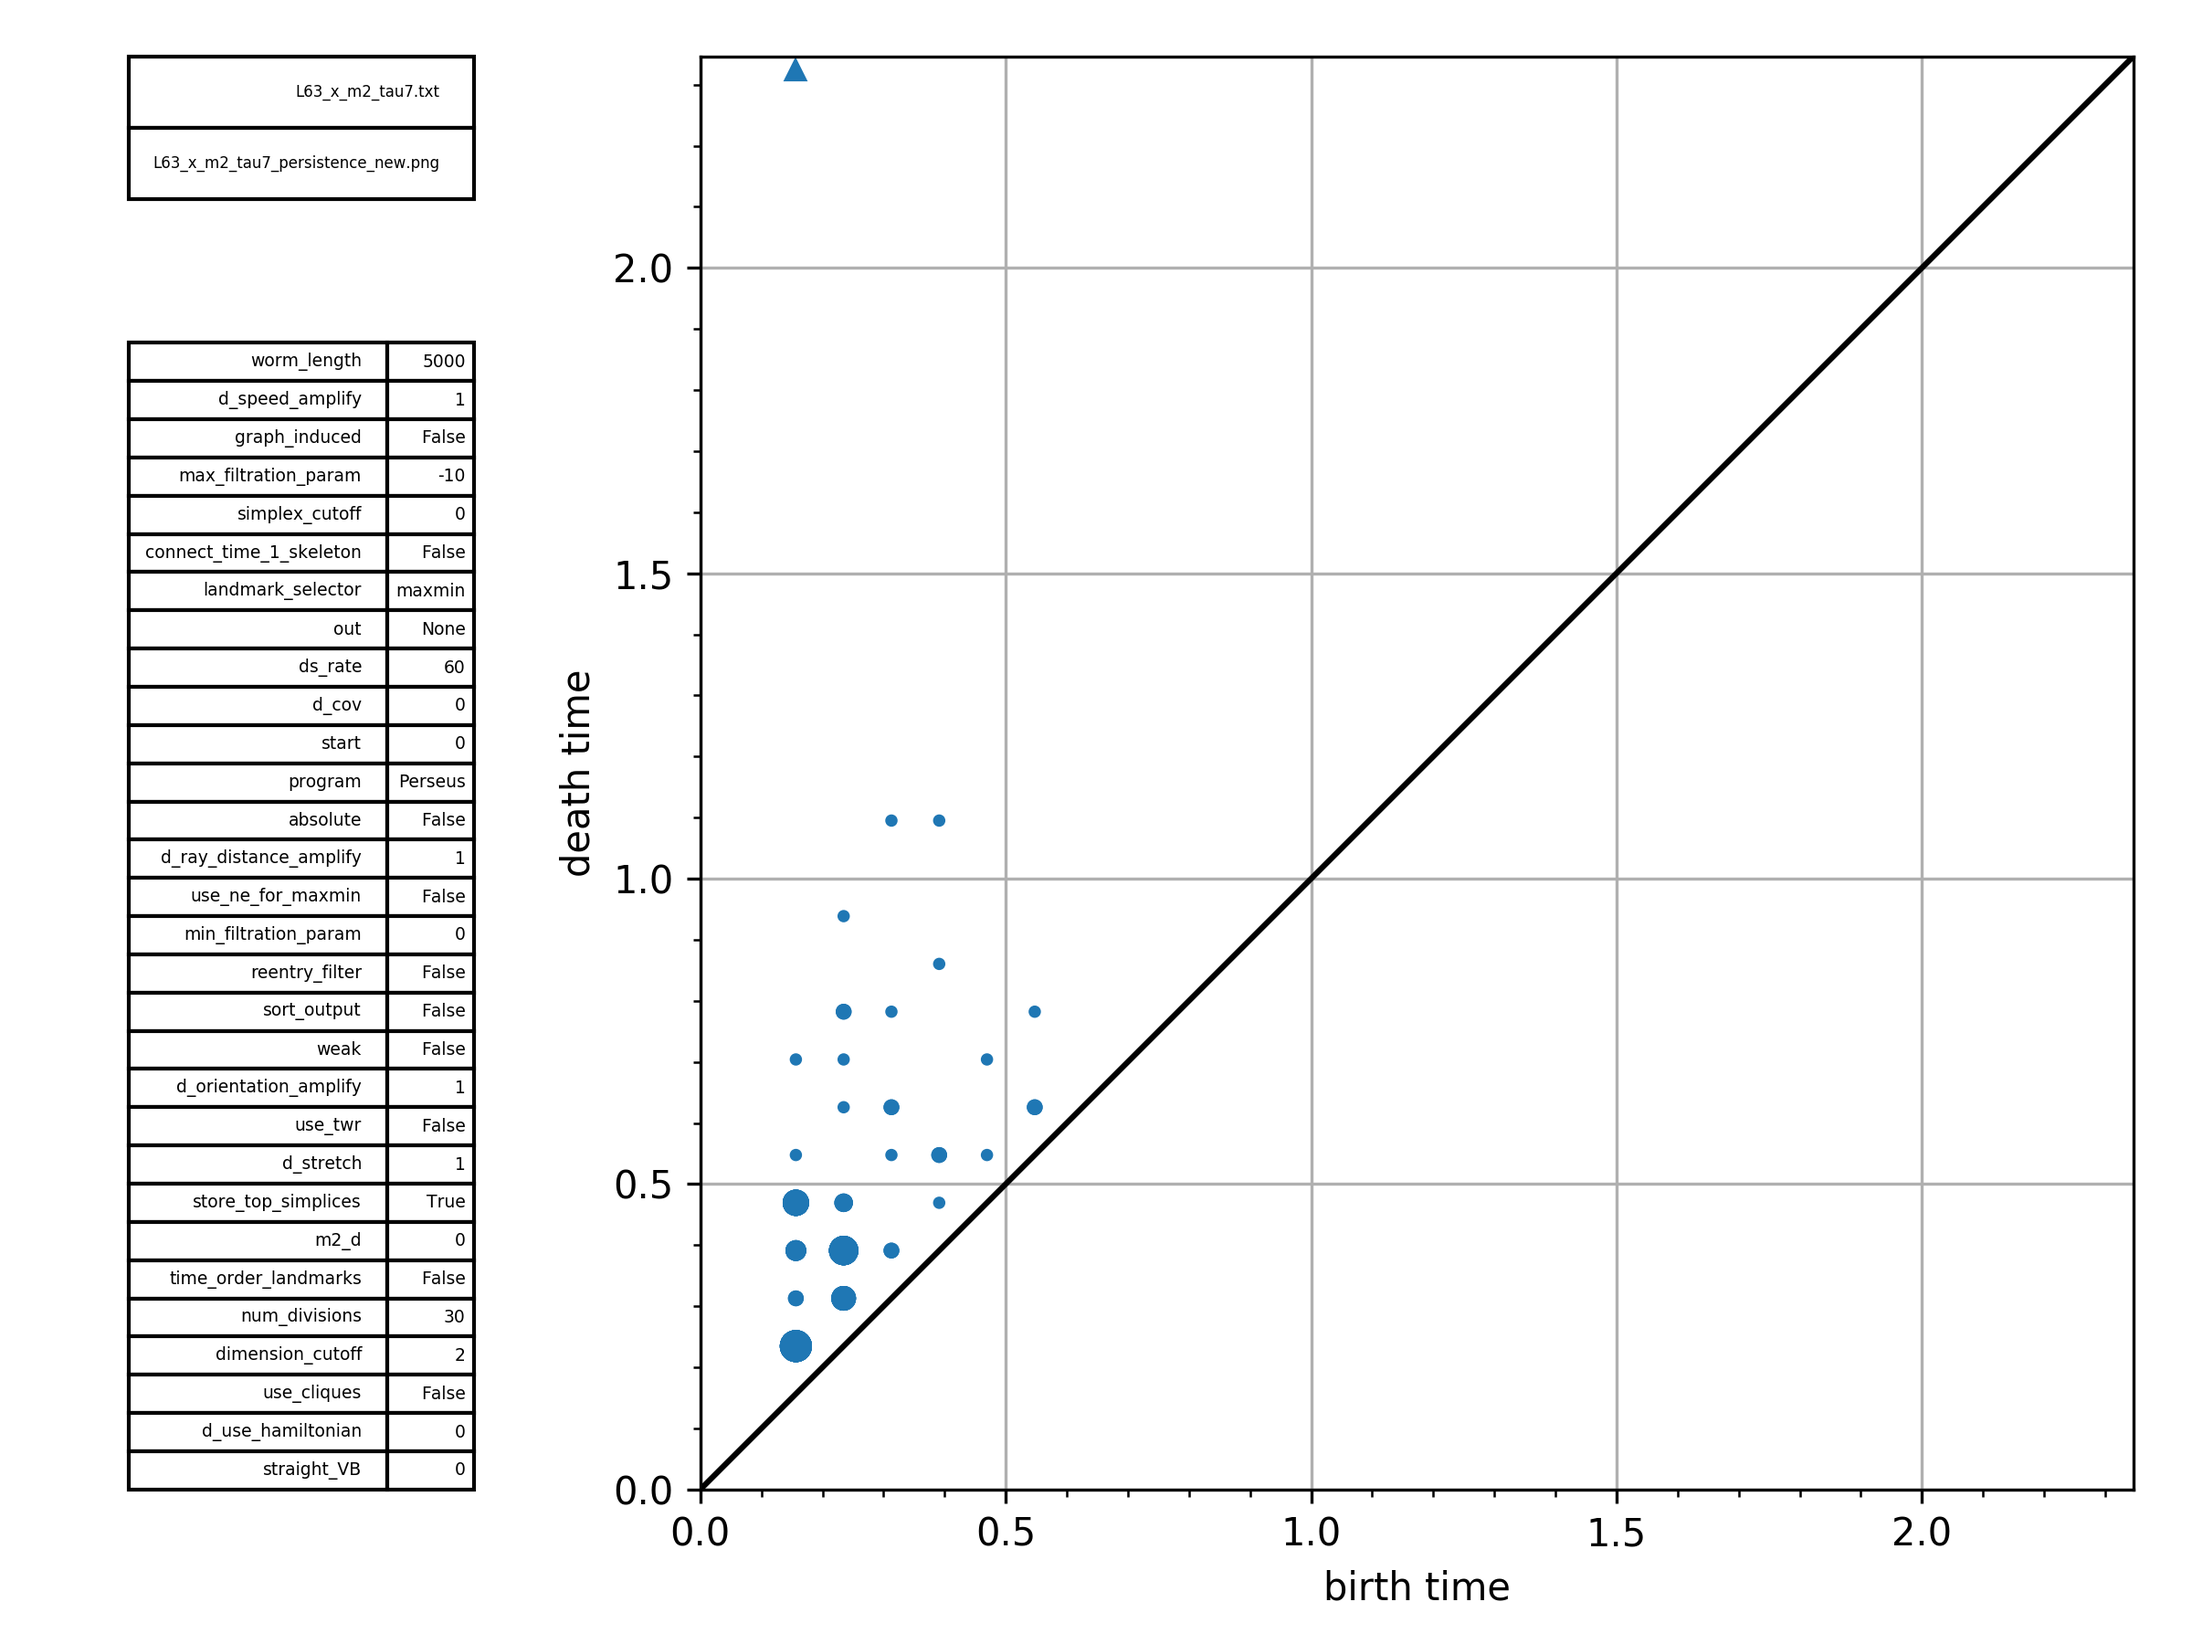
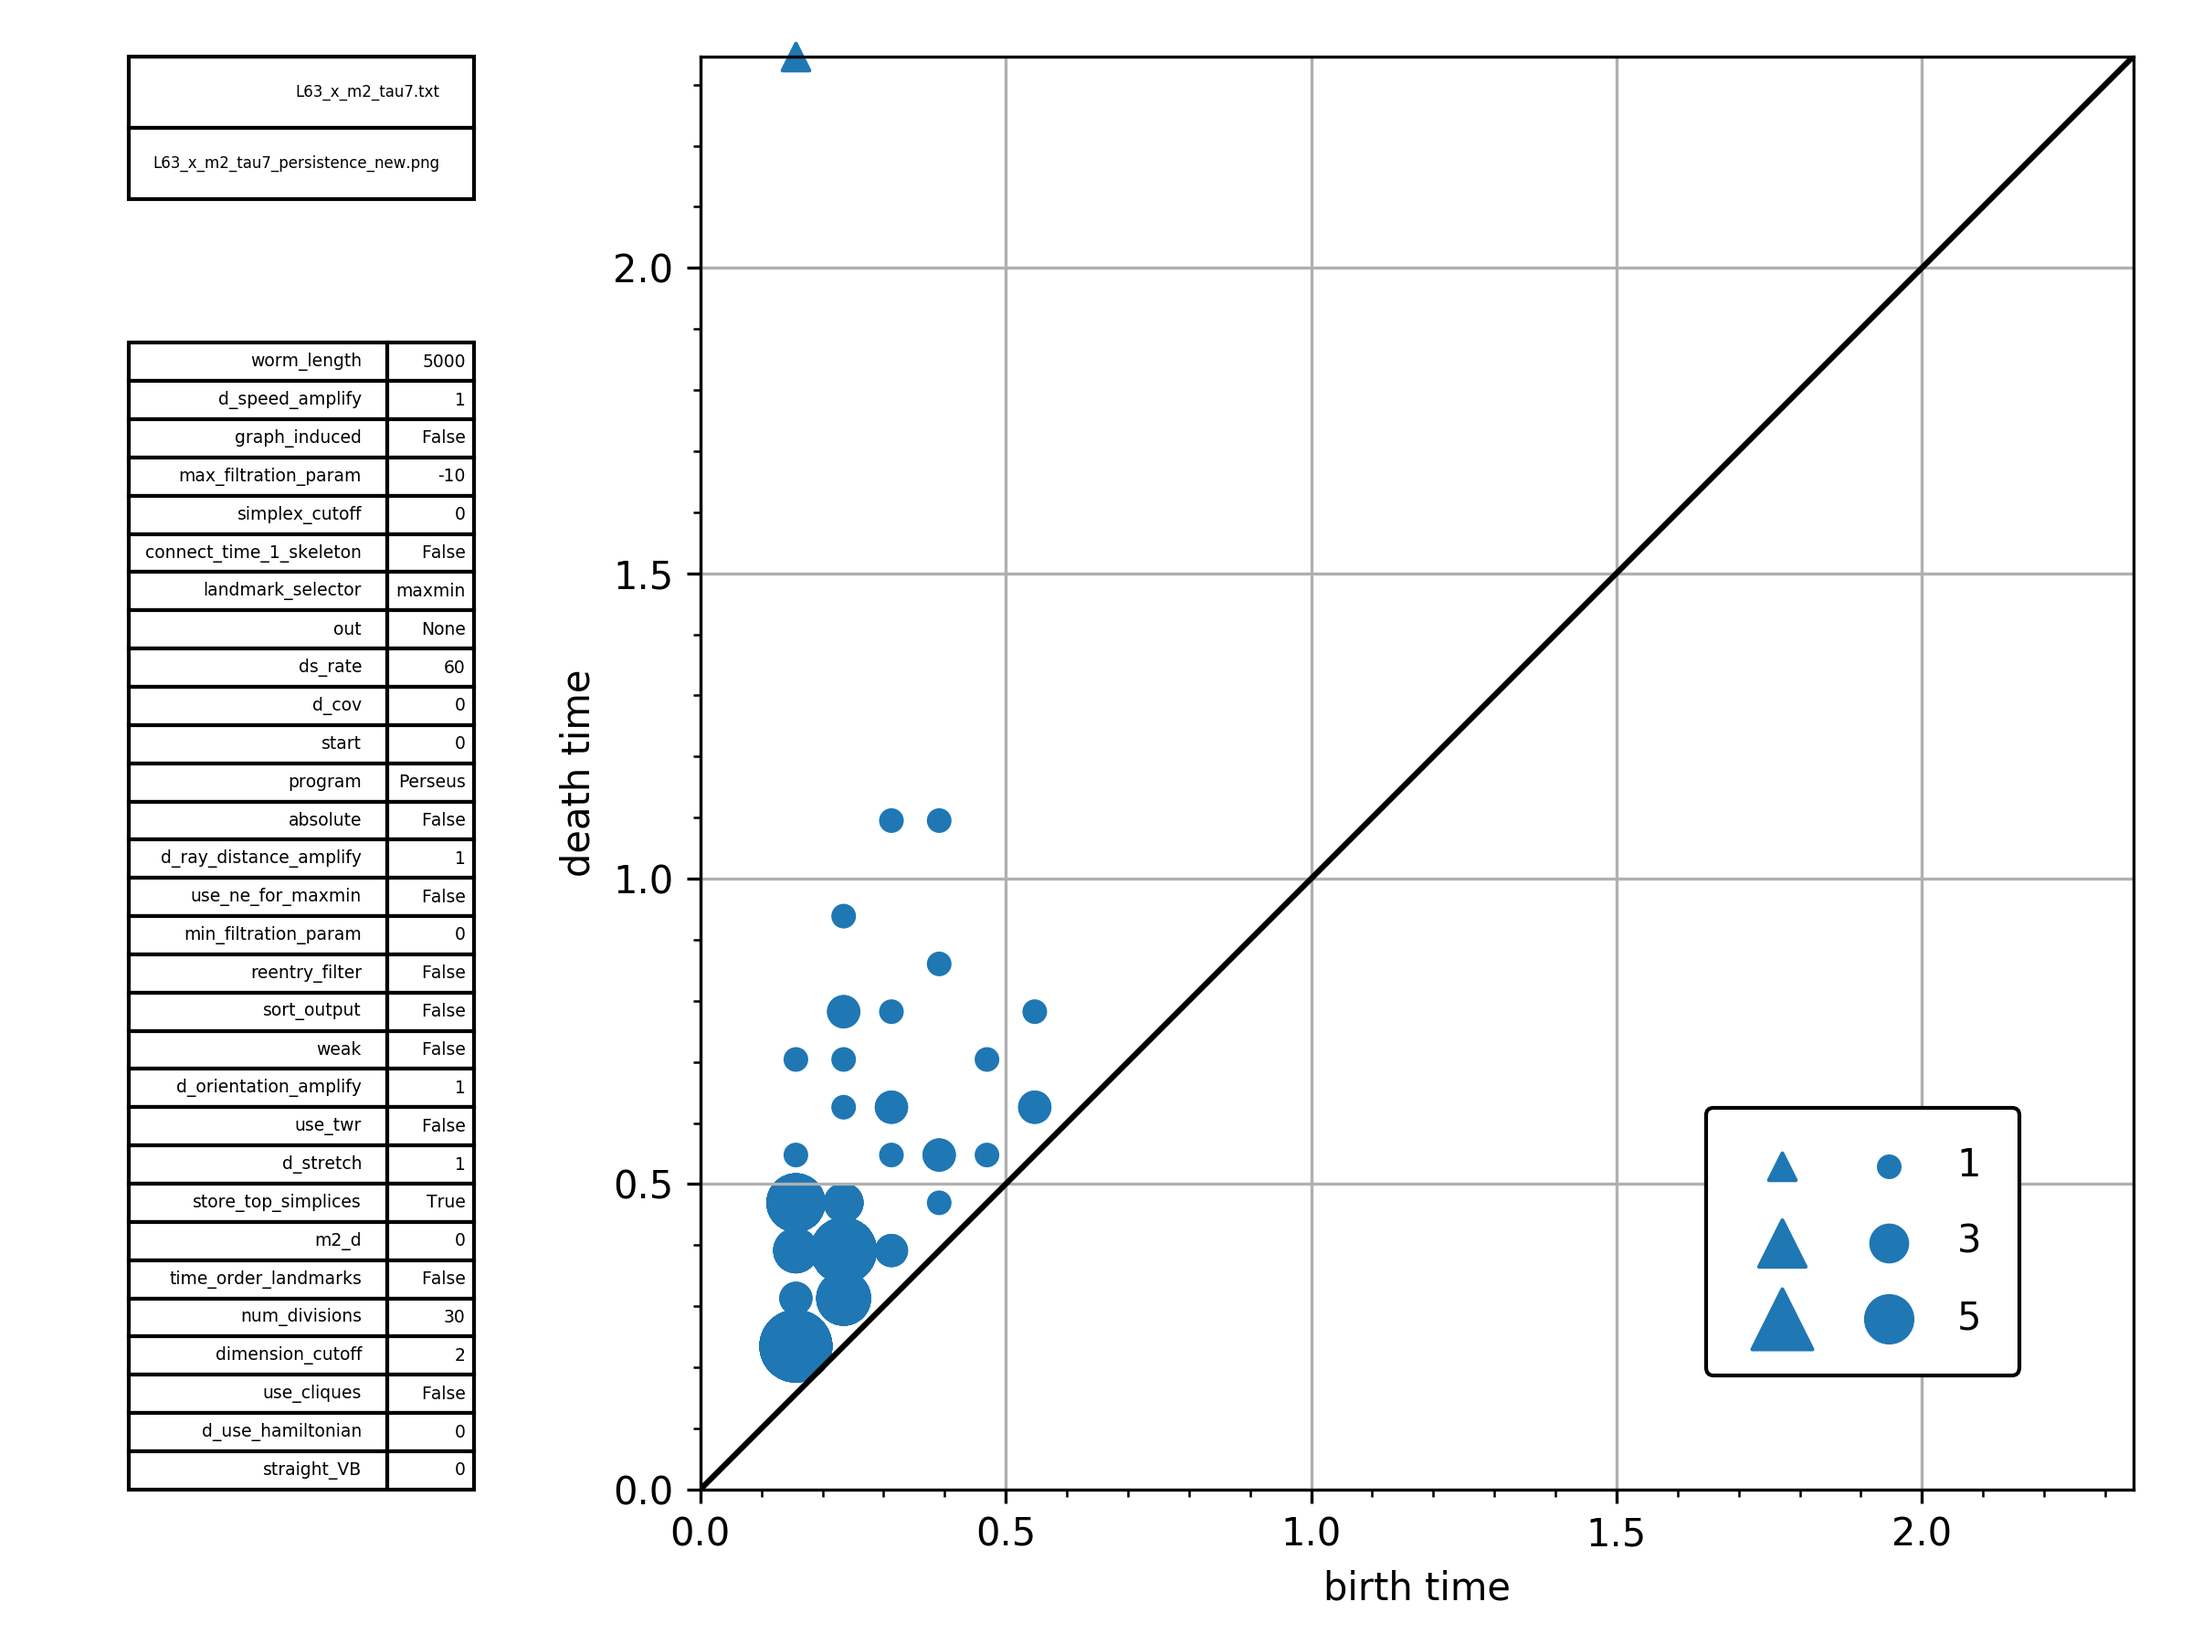
PD: added triangle sizing, legend. filt movies: wits on top

diff --git a/PersistentHomology/PersistencePlotter.py b/PersistentHomology/PersistencePlotter.py
@@ -82,7 +82,7 @@ def add_title(subplot, title_block_info):
 	title_table.auto_set_font_size(False)
 	title_table.auto_set_font_size(8)
 
-def add_persistence_plot(subplot):
+def add_persistence_plot(subplot, fig):
 	print 'plotting persistence diagram...'
 	birth_t, death_t = np.loadtxt('PersistentHomology/perseus/perseus_out_1.txt', unpack=True)
 
@@ -104,28 +104,28 @@ def add_persistence_plot(subplot):
 
 	subplot.plot([0, lim], [0, lim], color='k') # diagonal line
 
-	birth_e = []
-	death_e = []
-
-	for times in zip(birth_t, death_t):
-		if times[1] != - 1:
-			birth_e.append(epsilons[int(times[0])])
-			death_e.append(epsilons[int(times[1])])
-
-
+	# plot immortal holes #
 	immortal_holes = [epsilons[int(birth_t[i])] for i, death_time in enumerate(death_t) if death_time == -1]
 	count = np.zeros(len(immortal_holes))
 	for i, pt in enumerate(immortal_holes):
 		for scanner_pt in immortal_holes:
 			if pt == scanner_pt:
 				count[i] += 1
-	for b_e in immortal_holes:
-		# subplot.plot((bt, bt), (bt, lim), '--', color='k', lw=1, zorder=0)    # immortal holes
-		print 'immortal hole count:', count
-		subplot.plot(b_e, lim *.99, '^', color='C0', markersize=count * 5)
+
+	t_ms_scale = 50
+
+	x, y = immortal_holes, [lim for i in immortal_holes]
+	subplot.scatter(x, y, marker='^', s=(count * t_ms_scale), c='C0', clip_on=False)
+	# end plot immortal holes#
 
 
 
+	# plot doomed holes #
+	birth_e, death_e = [], []
+	for times in zip(birth_t, death_t):
+		if times[1] != - 1:
+			birth_e.append(epsilons[int(times[0])])
+			death_e.append(epsilons[int(times[1])])
 
 	count = np.zeros(len(birth_t))
 	for i, pt in enumerate(zip(birth_t, death_t)):
@@ -133,7 +133,32 @@ def add_persistence_plot(subplot):
 			if pt == scanner_pt:
 				count[i] += 1
 
-	subplot.scatter(birth_e, death_e, s=(count * 5), zorder=1)   # doomed holes
+	p_ms_scale = 30
+	subplot.scatter(birth_e, death_e, s=(count * p_ms_scale), clip_on=False)
+	# end plot doomed holes #
+
+	# add legend #
+	mark_t_1 = subplot.scatter([], [], marker='^', s=t_ms_scale, c='C0')
+	mark_t_3 = subplot.scatter([], [], marker='^', s=t_ms_scale * 3, c='C0')
+	mark_t_5 = subplot.scatter([], [], marker='^', s=t_ms_scale * 5, c='C0')
+
+	mark_p_1 = subplot.scatter([], [], s=p_ms_scale, c='C0')
+	mark_p_3 = subplot.scatter([], [], s=p_ms_scale * 3, c='C0')
+	mark_p_5 = subplot.scatter([], [], s=p_ms_scale * 5, c='C0')
+
+	marks = (mark_t_1, mark_t_3, mark_t_5, mark_p_1, mark_p_3, mark_p_5)
+	labels = ('', '', '', '1', '3', '5')
+
+	subplot.legend(
+		marks, labels, loc='lower right', ncol=2, markerscale=1,
+		borderpad=1,
+		labelspacing=1,
+		framealpha=1,
+		columnspacing=0,
+		borderaxespad=3,
+		edgecolor='k'
+	)
+	# end add legend #
 
 
 
@@ -165,7 +190,7 @@ def make_figure(title_block_info, out_file_name):
 	title_block = pyplot.subplot2grid((3, 4), (0, 0), rowspan=3)
 	pers_plot = pyplot.subplot2grid((3, 4), (0, 1), rowspan=3, colspan=3)
 
-	add_persistence_plot(pers_plot)
+	add_persistence_plot(pers_plot, fig)
 	add_title(title_block, title_block_info)
 	pyplot.savefig(out_file_name)
 	pyplot.clf()

diff --git a/PersistentHomology/ph_test_all.py b/PersistentHomology/ph_test_all.py
@@ -1,0 +1,40 @@
+import sys
+import numpy as np
+from PersistentHomology.TestingFunctions import build_and_save_filtration, make_filtration_movie, make_persistence_diagram
+from PersistentHomology.FiltrationPlotter import make_frame3D
+from PersistentHomology.TestingFunctions import parameter_set
+
+
+
+in_data_file_name = "datasets/embedded/L63_x_m2/L63_x_m2_tau35.txt"
+build_filt_params = parameter_set
+build_filt_params.update(
+	{
+		'ds_rate': 60,
+		'worm_length': 5000,
+		'max_filtration_param': -5,
+		# 'd_cov': 20,
+		'num_divisions': 10,
+		'use_cliques': True,
+
+	})
+
+# start_pt = 0  # fraction to skip of in data file (primitive sliding window)
+# build_and_save_filtration(in_data_file_name, build_filt_params, start=start_pt)  # comment out to reuse filtration
+#
+# make_filtration_movie(
+# 	in_data_file_name,              # used to check if saved filtration is up to date, and in titlebox
+# 	"output/PersistentHomology/L63_x_m2_tau7_movie.mp4",      		# output filename
+# 	build_filt_params,              # passed to BuildComplex.build_filtration()
+#
+# 	# the following are optional plotting parameters and may be omitted
+# 	# see documentation at line 76 of TestingFunctions.py.
+# 	color_scheme='none',
+# 	framerate=1,
+# )
+
+make_persistence_diagram(
+	in_data_file_name,
+	"output/PersistentHomology/L63_x_m2_tau7_persistence_new.png",
+	build_filt_params
+)

diff --git a/phTester.py b/phTester.py
@@ -26,17 +26,17 @@ if test == 1:
 
 	start_pt = 0   # fraction to skip of in data file (primitive sliding window)
 	build_and_save_filtration(in_data_file_name, build_filt_params, start=start_pt) # comment out to reuse filtration
-	#
-	# make_filtration_movie(
-	# 	in_data_file_name,              # used to check if saved filtration is up to date, and in titlebox
-	# 	"output/PersistentHomology/L63_x_m2_tau7_movie.mp4",      		# output filename
-	# 	build_filt_params,              # passed to BuildComplex.build_filtration()
-	#
-	# 	# the following are optional plotting parameters and may be omitted
-	# 	# see documentation at line 76 of TestingFunctions.py.
-	# 	color_scheme='none',
-	# 	framerate=1,
-	# )
+
+	make_filtration_movie(
+		in_data_file_name,              # used to check if saved filtration is up to date, and in titlebox
+		"output/PersistentHomology/L63_x_m2_tau7_movie.mp4",      		# output filename
+		build_filt_params,              # passed to BuildComplex.build_filtration()
+
+		# the following are optional plotting parameters and may be omitted
+		# see documentation at line 76 of TestingFunctions.py.
+		color_scheme='none',
+		framerate=1,
+	)
 
 	make_persistence_diagram(
 		in_data_file_name,
